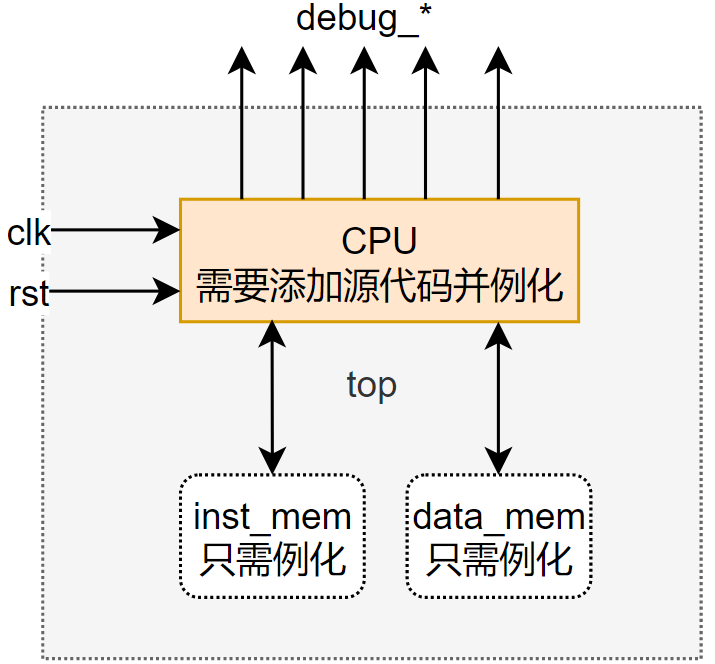
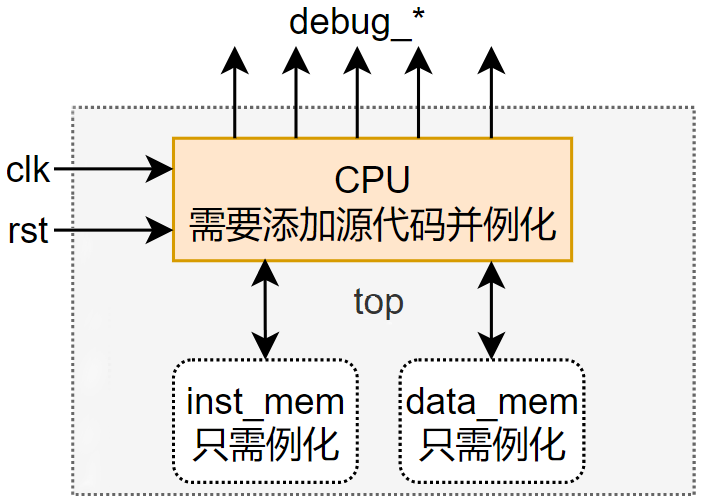
fix pics

diff --git a/site/trace/trace/index.html b/site/trace/trace/index.html
@@ -1533,7 +1533,7 @@
 <p><img alt="image-20210704014403857" src="../assets/trace-5.png" /></p>
 <h3 id="43">4.3 查看反汇编</h3>
 <p>&emsp;&emsp;反汇编文件在<code>asm</code>文件夹中，在上述例子中，我们看到是在PC=8处出现了错误，写回的值不对，而观察<code>auipc.dump</code>文件，可以找到出错点。</p>
-<p><img alt="image-20210704013720885" src="../assets/trace-6.png" /></p>
+<p><center><img src = "../assets/trace-6.png" width = 600></center></p>
 <p>&emsp;&emsp;根据出错点，结合波形，我们可以进行高效的调试了。</p>
 <h3 id="44">4.4 批量运行测试</h3>
 <p>&emsp;&emsp;如果你对你的实现有足够的信心，可以采用以下两种方式来自动化测试。</p>
@@ -1545,16 +1545,16 @@
 <p>&emsp;&emsp;执行这条命令之前，需要保证之前已经<code>make</code>过了。</p>
 </div>
 <p>&emsp;&emsp;在很长的滚屏之后，会出现一个测试报告，告诉你哪些测试通过，哪些测试不通过。所有测试点的波形文件都在<code>waveform</code>文件夹中，你可以打开对应的文件结合反汇编和在SUMMARY之前输出的报错信息进行调试。</p>
-<p><img alt="image-20210704014045871" src="../assets/trace-7.png" /></p>
+<p><center><img src = "../assets/trace-7.png" width = 450></center></p>
 <p><img alt="image-20210704013913901" src="../assets/trace-8.png" /></p>
 <p><strong>（2）使用start测试程序自动测试</strong></p>
 <p>&emsp;&emsp;输入以下命令:</p>
 <div class="highlight"><pre><span></span><code><span class="w"> </span><span class="m">1</span><span class="p">|</span>make<span class="w"> </span>run<span class="w"> </span><span class="nv">TEST</span><span class="o">=</span>start
 </code></pre></div>
 <p>如果你的mycpu能够支持37条指令（24条必做和13条选做），则会显示“Test Point Pass!”。</p>
-<p><img alt="trace9" src="../assets/trace-9.png" /></p>
+<p><center><img src = "../assets/trace-9.png" width = 300></center></p>
 <p>如果测试显示“[difftest] Test Failed!”，说明没有通过37条指令测试。Digiti的数值则表示你的mycpu通过的功能点数，其高8位为0x25，表示共有37个测试点，低8位表示通过的测试点数。</p>
-<p><img alt="trace10" src="../assets/trace-10.png" /></p>
+<p><center><img src = "../assets/trace-10.png" width = 380></center></p>
 
 
 

diff --git a/docs/trace/trace.md b/docs/trace/trace.md
@@ -183,7 +183,7 @@
 
 &emsp;&emsp;反汇编文件在`asm`文件夹中，在上述例子中，我们看到是在PC=8处出现了错误，写回的值不对，而观察`auipc.dump`文件，可以找到出错点。
 
-![image-20210704013720885](assets/trace-6.png)
+<center><img src = "../assets/trace-6.png" width = 600></center>
 
 &emsp;&emsp;根据出错点，结合波形，我们可以进行高效的调试了。
 
@@ -202,7 +202,7 @@
 
 &emsp;&emsp;在很长的滚屏之后，会出现一个测试报告，告诉你哪些测试通过，哪些测试不通过。所有测试点的波形文件都在`waveform`文件夹中，你可以打开对应的文件结合反汇编和在SUMMARY之前输出的报错信息进行调试。
 
-![image-20210704014045871](assets/trace-7.png)
+<center><img src = "../assets/trace-7.png" width = 450></center>
 
 ![image-20210704013913901](assets/trace-8.png)
 
@@ -216,8 +216,8 @@
 
 如果你的mycpu能够支持37条指令（24条必做和13条选做），则会显示“Test Point Pass!”。
 
-![trace9](assets/trace-9.png)
+<center><img src = "../assets/trace-9.png" width = 300></center>
 
 如果测试显示“[difftest] Test Failed!”，说明没有通过37条指令测试。Digiti的数值则表示你的mycpu通过的功能点数，其高8位为0x25，表示共有37个测试点，低8位表示通过的测试点数。
 
-![trace10](assets/trace-10.png)
+<center><img src = "../assets/trace-10.png" width = 380></center>
